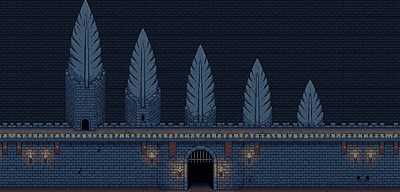
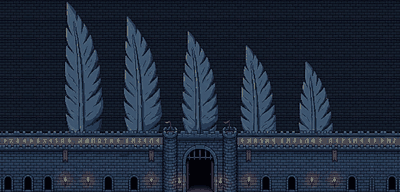
Façades : nouvelles images Gemini cohérentes avec la vue globale (aile + queue), herse dessinée par code
Claude-Session: https://claude.ai/code/session_01R6DULziKfSGZcEEcyC3Cch

diff --git a/Outils/traiter_facades.py b/Outils/traiter_facades.py
@@ -1,18 +1,18 @@
-"""Façades des entrées de donjon (images Gemini) -> `Assets/Gemini/tuiles/v_facade_*.png` (400x192 = 25x12 cases).
-Sources (Assets/Gemini/originaux/) : facade_queue.jpg (tours à flammes), facade_aile_ouverte.jpg, facade_aile_fermee.jpg (plumes, aile GAUCHE ; l'aile droite = miroir).
-Retouches : la grande tour / la grande plume du bout étaient coupées en haut de l'image -> on les COMPLÈTE (flamme copiée d'une autre tour ; pointe de plume copiée de la plume voisine).
-Le ciel magenta est remplacé par un fond de briques sombres (le bâtiment continue vers le haut de l'écran).
+"""Façades des entrées de donjon (images Gemini, vue de face) -> `Assets/Gemini/tuiles/v_facade_*.png` (400x192 = 25x12 cases).
+Sources (Assets/Gemini/originaux/) : facade_aile_ouverte.jpg (AILE GAUCHE : 5 plumes de pierre sur le rempart, porte ouverte ; l'aile droite = miroir)
+et facade_queue.jpg (QUEUE : donjon rond, tour de tête, 4 tours à flammes qui mènent à la porte).
+La variante « herse baissée » de l'aile est FABRIQUÉE ICI en dessinant une herse dans l'arche (pas d'image source).
+Le ciel magenta est remplacé par des briques sombres (le bâtiment continue vers le haut de l'écran).
 À lancer AVANT generer_village.py."""
 import os
-from PIL import Image, ImageFilter, ImageChops
+from PIL import Image, ImageFilter
 import numpy as np
 
 ORIG = "Assets/Gemini/originaux/"
 SORTIE = "Assets/Gemini/tuiles/"
-PAD = 110            # marge ajoutée en haut pour les parties complétées (pixels de l'image source)
-BAS = 704            # on coupe l'image à cette ligne (sol de terre exclu)
 HAUTEUR = 192        # 12 cases
 LARGEUR = 400
+BANDE = 26           # largeur de bande reflétée pour élargir les bords
 
 
 def cle_ciel(a):
@@ -20,108 +20,47 @@ def cle_ciel(a):
     return (r > 150) & (b > 150) & (g < 120)
 
 
-def avec_marge(img):
-    a = np.array(img.convert("RGB"))
-    marge = np.zeros((PAD, a.shape[1], 3), np.uint8); marge[:] = (255, 0, 255)
-    return np.concatenate([marge, a], axis=0)
+def herse(a):
+    """Dessine une herse de fer dans l'arche de la porte (image de l'aile : arche centrée en x=689, ouverture y 598-745)."""
+    a = a.copy()
+    for y in range(598, 748):
+        for x in range(645, 734):
+            if y < 650 and ((x - 689) / 50.0) ** 2 + ((y - 650) / 52.0) ** 2 > 1.0:
+                continue
+            vertical = (x - 645) % 12 < 3
+            horizontal = (y - 600) % 46 < 3 and y > 640
+            if vertical or horizontal:
+                a[y, x] = (118, 122, 134) if ((x - 645) % 12 == 0 or (y - 600) % 46 == 0) else (84, 88, 100)
+    return a
 
 
-def coller(dst, src, boite_src, dx, dy, masque):
-    """Copie les pixels de `src` (boite_src = x0,y0,x1,y1) décalés de (dx,dy), seulement là où `masque` (même taille que la boîte) est vrai."""
-    x0, y0, x1, y1 = boite_src
-    for y in range(y0, y1):
-        for x in range(x0, x1):
-            if masque[y - y0, x - x0]:
-                ty, tx = y + dy, x + dx
-                if 0 <= ty < dst.shape[0] and 0 <= tx < dst.shape[1]:
-                    dst[ty, tx] = src[y, x]
-
-
-def completer_flamme(a):
-    """Grande tour centrale : la flamme sortait de l'image. On copie celle de la 2e tour (mêmes proportions) au-dessus de la couronne."""
-    src = a.copy()
-    boite = (350, PAD + 5, 535, PAD + 150)
-    reg = src[boite[1]:boite[3], boite[0]:boite[2]].astype(int)
-    r, g, b = reg[..., 0], reg[..., 1], reg[..., 2]
-    flamme = (r > 205) & (g > 60) & (b < 170) & ~cle_ciel(reg.astype(np.uint8))
-    flamme = np.array(Image.fromarray((flamme * 255).astype(np.uint8)).filter(ImageFilter.MaxFilter(3))) > 0
-    # on efface l'ancienne flamme coupée de la grande tour, puis on colle
-    dx, dy = 688 - 440, (PAD + 40) - (PAD + 147)
-    zone = (610, 0, 770, PAD + 60)
-    sub = a[zone[1]:zone[3], zone[0]:zone[2]].astype(int)
-    vieux = (sub[..., 0] > 205) & (sub[..., 2] < 170)
-    a[zone[1]:zone[3], zone[0]:zone[2]][vieux] = (255, 0, 255)
-    coller(a, src, boite, dx, dy, flamme)
-
-
-def completer_plume(a):
-    """Plume du bout (la plus haute) : la pointe sortait de l'image. On copie la pointe de la plume voisine, agrandie pour avoir la même largeur."""
-    src = Image.fromarray(a.copy())
-    sky = cle_ciel(a)
-    def largeur(y, x0, x1):
-        xs = np.where(~sky[y, x0:x1])[0]
-        return (xs.max() - xs.min() + 1, (xs.max() + xs.min()) / 2 + x0) if len(xs) else (0, 0)
-    w5, c5 = largeur(PAD + 1, 1085, 1265)               # largeur de la plume du bout tout en haut de l'image d'origine
-    # plume voisine : on cherche la ligne où sa largeur égale w5 / facteur
-    f = 1.0
-    haut4 = next(y for y in range(PAD, PAD + 200) if largeur(y, 850, 1015)[0] > 0)
-    c4 = largeur(haut4 + 60, 850, 1015)[1]
-    best = None
-    for y in range(haut4, haut4 + 140):
-        w, _ = largeur(y, 850, 1015)
-        if w >= w5 / 1.0:
-            best = y; break
-    hauteur_pointe = best - haut4
-    pointe = src.crop((int(c4 - w5 / 2 - 6), haut4, int(c4 + w5 / 2 + 7), best + 2))
-    arr = np.array(pointe)
-    m = ~cle_ciel(arr)
-    x_dest = int(round(c5 - pointe.width / 2))
-    y_dest = PAD + 0 - hauteur_pointe
-    for y in range(arr.shape[0]):
-        for x in range(arr.shape[1]):
-            if m[y, x]:
-                ty, tx = y_dest + y, x_dest + x
-                if 0 <= ty < a.shape[0] and 0 <= tx < a.shape[1]:
-                    a[ty, tx] = arr[y, x]
-
-
-def fond_briques(h, l):
-    """Fond du « ciel » : briques sombres du mur, assombries."""
-    return None
-
-
-def construire(nom_src, retouche, sortie, miroir):
-    a = avec_marge(Image.open(ORIG + nom_src))
-    retouche(a)
-    # ciel -> fond de briques sombres (texture prise sur le mur, assombrie)
+def construire(nom_src, sortie, miroir, retouche=None, texture_ciel=None):
+    a = np.array(Image.open(ORIG + nom_src).convert("RGB"))
+    if retouche:
+        a = retouche(a)
     ciel = cle_ciel(a)
     ciel = np.array(Image.fromarray((ciel * 255).astype(np.uint8)).filter(ImageFilter.MaxFilter(5))) > 0
-    tuile = a[PAD + 600:PAD + 676, 100:440].astype(float) * 0.5
+    tuile = texture_ciel.astype(float) * 0.5
     h, l = a.shape[:2]
     fond = np.tile(tuile, (h // tuile.shape[0] + 1, l // tuile.shape[1] + 1, 1))[:h, :l]
     a = a.astype(float)
     a[ciel] = fond[ciel]
-    a = a.astype(np.uint8)[: PAD + BAS]
-    img = Image.fromarray(a)
+    img = Image.fromarray(a.astype(np.uint8))
     echelle = HAUTEUR / img.height
     w = round(img.width * echelle)
     img = img.resize((w, HAUTEUR), Image.LANCZOS).filter(ImageFilter.UnsharpMask(1, 60, 2))
-    # élargit jusqu'à 400 px en reflétant les bords (le mur est répétitif)
     reste = LARGEUR - w
     g = reste // 2
     d = reste - g
     out = Image.new("RGB", (LARGEUR, HAUTEUR))
     out.paste(img, (g, 0))
-    BANDE = 26   # largeur de bande reflétée (< distance entre le bord et la 1re tour, pour ne pas dupliquer de tour)
     gauche = img.crop((0, 0, BANDE, HAUTEUR)); droite = img.crop((w - BANDE, 0, w, HAUTEUR))
     x, flip = g, True
     while x > 0:                       # à gauche : reflets successifs de la bande du bord
-        bande = gauche.transpose(Image.FLIP_LEFT_RIGHT) if flip else gauche
-        out.paste(bande, (x - BANDE, 0)); x -= BANDE; flip = not flip
+        out.paste(gauche.transpose(Image.FLIP_LEFT_RIGHT) if flip else gauche, (x - BANDE, 0)); x -= BANDE; flip = not flip
     x, flip = g + w, True
     while x < LARGEUR:
-        bande = droite.transpose(Image.FLIP_LEFT_RIGHT) if flip else droite
-        out.paste(bande, (x, 0)); x += BANDE; flip = not flip
+        out.paste(droite.transpose(Image.FLIP_LEFT_RIGHT) if flip else droite, (x, 0)); x += BANDE; flip = not flip
     if miroir:
         out = out.transpose(Image.FLIP_LEFT_RIGHT)
     out = out.quantize(48, dither=Image.NONE).convert("RGBA")
@@ -130,11 +69,12 @@ def construire(nom_src, retouche, sortie, miroir):
 
 
 if __name__ == "__main__":
-    construire("facade_queue.jpg", completer_flamme, "v_facade_queue.png", False)
-    construire("facade_aile_ouverte.jpg", completer_plume, "v_facade_aile_g.png", False)
-    construire("facade_aile_ouverte.jpg", completer_plume, "v_facade_aile_d.png", True)
-    construire("facade_aile_fermee.jpg", completer_plume, "v_facade_aile_d_fermee.png", True)
-    # aperçu
+    # briques sombres prises sur le mur de l'aile (zone sans bannière ni torche)
+    mur = np.array(Image.open(ORIG + "facade_aile_ouverte.jpg").convert("RGB"))[612:690, 175:290]
+    construire("facade_queue.jpg", "v_facade_queue.png", False, None, mur)
+    construire("facade_aile_ouverte.jpg", "v_facade_aile_g.png", False, None, mur)
+    construire("facade_aile_ouverte.jpg", "v_facade_aile_d.png", True, None, mur)
+    construire("facade_aile_ouverte.jpg", "v_facade_aile_d_fermee.png", True, herse, mur)
     ims = [Image.open(SORTIE + n) for n in ("v_facade_queue.png", "v_facade_aile_g.png", "v_facade_aile_d_fermee.png")]
     pl = Image.new("RGBA", (LARGEUR, HAUTEUR * 3 + 8), (60, 140, 60, 255))
     for i, im in enumerate(ims):

diff --git a/CLAUDE.md b/CLAUDE.md
@@ -807,3 +807,6 @@
 
 - 2026-11-14 : **FAÇADES GEMINI INTÉGRÉES** (images `Assets/Gemini/originaux/facade_queue.jpg`, `facade_aile_ouverte.jpg`, `facade_aile_fermee.jpg` = aile gauche ; la droite = miroir). `Outils/traiter_facades.py` (AVANT generer_village.py) : COMPLÈTE la flamme de la grande tour (copiée de la 2e tour) et la pointe de la grande plume (copiée de la voisine), remplace le ciel magenta par des briques sombres, réduit en 400x192, élargit les bords par reflets -> `v_facade_queue|aile_g|aile_d|aile_d_fermee.png`.
   NOUVELLE DISPOSITION : façade = 25x12 cases (rangées 0-11), porte = 3 passages en RANGÉE 11, sol sur 2 rangées en dessous ; TempleGauche/TempleDroit/Queue n'ont plus qu'une SORTIE SUD (arrivée en (12,12)) ; le Parvis perd ses sorties ouest/est (chemin du parvis raccourci ; les temples s'atteignent par le sud : verger / terrain de la garde). Garde en (12,12). Tests + verifier_carte OK.
+
+- 2026-11-14 : retour : « la façade ne correspond pas à la vue globale » -> l'utilisateur a regénéré 2 façades AVEC `Coq_forteresse.jpg` en référence : `facade_aile_ouverte.jpg` (aile gauche : 5 plumes de pierre sur un long rempart à runes, porte ouverte) et `facade_queue.jpg` (donjon rond + tour de tête + 4 tours à flammes, porte au centre). Plus aucune retouche nécessaire (rien n'est coupé).
+  `Outils/traiter_facades.py` réécrit : 400x192 (échelle 0,25 + bords reflétés), ciel magenta -> briques sombres, aile droite = miroir, variante HERSE BAISSÉE = herse dessinée par code dans l'arche (`herse()`), pas d'image source. `facade_aile_fermee.jpg` supprimée. Disposition 25x12 / porte rangée 11 inchangée. Tests + verifier_carte OK.
